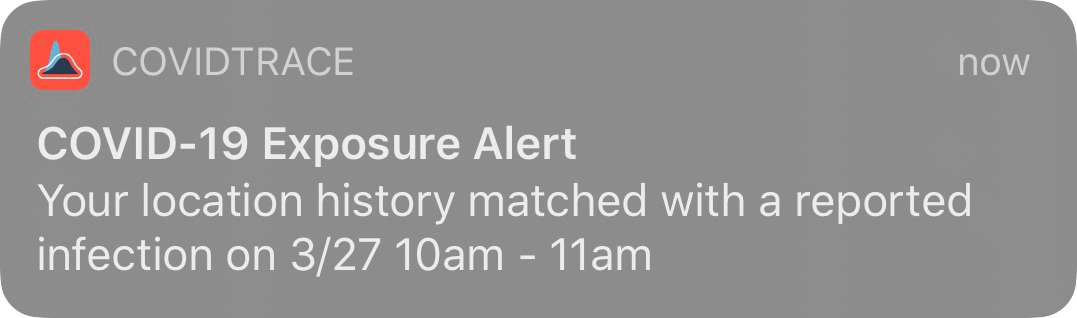
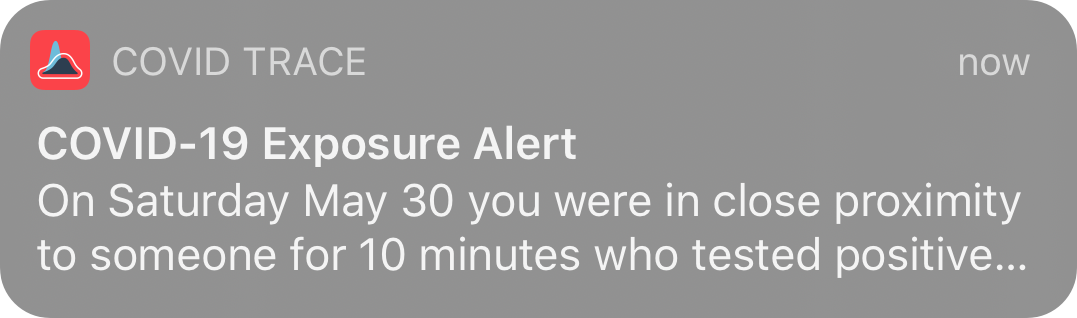
Copy changes, bug fixes, specify contact number in config.json
- No longer require App.xcconfig to exist
- Change exposure notification copy to be consistent with dashboard messaging

diff --git a/lib/onboarding.dart b/lib/onboarding.dart
@@ -1,5 +1,6 @@
 import 'package:app_settings/app_settings.dart';
 import 'package:covidtrace/config.dart';
+import 'package:covidtrace/helper/check_exposures.dart';
 import 'package:flutter/gestures.dart';
 import 'package:flutter/material.dart';
 import 'package:flutter/services.dart';
@@ -45,6 +46,9 @@ class OnboardingState extends State {
       duration: Duration(milliseconds: 250), curve: Curves.easeOut);
 
   void requestPermission(bool selected) async {
+    showExposureNotification(
+        ExposureInfo(DateTime.now(), Duration(minutes: 10), 6, 0));
+
     if (_linkToSettings) {
       AppSettings.openAppSettings();
       return;
@@ -149,7 +153,7 @@ class OnboardingState extends State {
                           children: [
                         Row(children: [
                           Expanded(
-                              child: Text('Enable Contact Tracing',
+                              child: Text('Enable Exposure Notifications',
                                   style:
                                       Theme.of(context).textTheme.headline5)),
                           Icon(Icons.near_me, size: 40, color: Colors.black38)
@@ -159,7 +163,7 @@ class OnboardingState extends State {
                           text: TextSpan(style: bodyText, children: [
                             TextSpan(
                               text:
-                                  "COVID Trace’s early detection works by using Bluetooth contact tracing to see if you have come in contact with people who reported positive test results. COVID Trace does this all on your phone to maintain your privacy. Limited information is shared when reporting an infection, symptoms or exposure.\n",
+                                  "COVID Trace’s early detection works by using Bluetooth to see if you have come in contact with people who reported positive test results. COVID Trace does this all on your phone to maintain your privacy. Limited information is shared when reporting an infection or potential exposure.\n",
                             ),
                             TextSpan(
                                 text: 'Find out more here',

diff --git a/lib/dashboard.dart b/lib/dashboard.dart
@@ -3,6 +3,7 @@ import 'dart:async';
 import 'package:covidtrace/config.dart';
 import 'package:covidtrace/info_card.dart';
 import 'package:covidtrace/storage/exposure.dart';
+import 'package:url_launcher/url_launcher.dart';
 
 import 'operator.dart';
 import 'package:flutter/material.dart';
@@ -233,10 +234,14 @@ class DashboardState extends State with TickerProviderStateMixin {
                   ),
                   Material(
                     shape: CircleBorder(),
+                    clipBehavior: Clip.antiAlias,
                     color: Theme.of(context).primaryColor,
-                    child: Padding(
-                      padding: EdgeInsets.all(10),
-                      child: Icon(Icons.phone, color: Colors.white, size: 30),
+                    child: InkWell(
+                      onTap: () => launch('tel:${authority['phone_number']}'),
+                      child: Padding(
+                        padding: EdgeInsets.all(10),
+                        child: Icon(Icons.phone, color: Colors.white, size: 30),
+                      ),
                     ),
                   ),
                 ]),

diff --git a/lib/helper/check_exposures.dart b/lib/helper/check_exposures.dart
@@ -127,7 +127,7 @@ void showExposureNotification(ExposureInfo exposure) async {
   await notificationPlugin.show(
       0,
       'COVID-19 Exposure Alert',
-      'You where exposed to someone who reported an infection on ${DateFormat.EEEE().add_MMMd().format(date)} for ${dur.inMinutes} minutes.',
+      'On ${DateFormat.EEEE().add_MMMd().format(date)} you were in close proximity to someone for ${dur.inMinutes} minutes who tested positive for COVID-19.',
       NotificationDetails(androidSpec, iosSpecs),
       payload: 'Default_Sound');
 }

diff --git a/lib/main.dart b/lib/main.dart
@@ -163,7 +163,7 @@ class MainPageState extends State<MainPage> {
   void testNotification() async {
     Navigator.of(context).pop();
     showExposureNotification(
-        ExposureInfo(DateTime.now(), Duration(minutes: 5), 6, 0));
+        ExposureInfo(DateTime.now(), Duration(minutes: 10), 6, 0));
   }
 
   resetVerified(AppState state) async {
